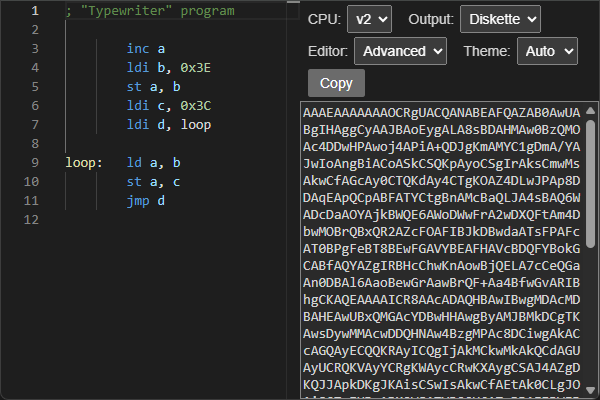
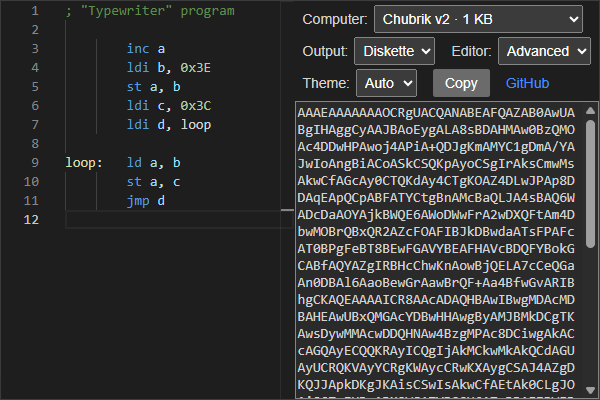
Moseev computer

diff --git a/js/v2-moseev/builder-config.js b/js/v2-moseev/builder-config.js
@@ -1,0 +1,24 @@
+import { GameMap } from "../arrows.js";
+
[3 lines of base64/hex data omitted]
+
+export const builderConfig = {
+    top,
+    bottom,
+    line,
+    rowBytes: 1,  // data bytes on one row of the diskette
+    minBytes: 2,  // the smallest payload a diskette can carry (assumed: seen only one sample)
+    rowPitch: 3,  // map rows taken by one data row: a header, the bits, a footer
+    dataX: 6,     // x of the first data arrow in a row (bit 0; bit 7 stands at x = 20)
+    cellPitch: 2, // x step between the cells of one byte
+    cells: [      // the arrow for each one-bit value of a cell
+        { type: 1, rotation: 3, flipped: false },
+        { type: 1, rotation: 2, flipped: false }
+    ],
+    topX: 0,      // x the top cap is pasted at
+    lineX: 0,     // x the row band is pasted at
+    lineDy: -1,   // band y relative to its row: the header row above the bits
+    bottomDy: -2, // bottom cap y = row count * rowPitch + bottomDy
+};

diff --git a/js/computers.js b/js/computers.js
@@ -6,10 +6,14 @@ import { Compiler as v2Compiler } from "./v2/compiler.js";
 import * as v2Reference from "./v2/reference.js";
 import * as v2Docs from "./v2/docs.js";
 import { builderConfig as v2Diskette } from "./v2/builder-config.js";
+import { Compiler as moseevCompiler } from "./v2-moseev/compiler.js";
+import * as moseevDocs from "./v2-moseev/docs.js";
+import { builderConfig as moseevDiskette } from "./v2-moseev/builder-config.js";
 
 export const computers = {
     "v1": { Compiler: v1Compiler, reference: v1Reference, docs: v1Docs, builderConfig: v1Diskette },
-    "v2": { Compiler: v2Compiler, reference: v2Reference, docs: v2Docs, builderConfig: v2Diskette }
+    "v2": { Compiler: v2Compiler, reference: v2Reference, docs: v2Docs, builderConfig: v2Diskette },
+    "v2-moseev": { Compiler: moseevCompiler, reference: v2Reference, docs: moseevDocs, builderConfig: moseevDiskette }
 };
 
 export const defaultComputer = "v2";

diff --git a/js/v2-moseev/docs.js b/js/v2-moseev/docs.js
@@ -1,0 +1,7 @@
+export { instructionDocs, dbDoc } from "../v2/docs.js";
+
+export const portDocs = {
+    0xFD: { doc: "**Port FD** — the input port" },
+    0xFE: { doc: "**Port FE** — the display, left half: the byte written appears in the bottom row and pushes the rows above it up" },
+    0xFF: { doc: "**Port FF** — the display, right half: the byte written appears in the bottom row and pushes the rows above it up" }
+};

diff --git a/js/v2-moseev/compiler.js b/js/v2-moseev/compiler.js
@@ -1,0 +1,9 @@
+import { createCompiler } from "../asm.js";
+import { Args, commands, instructions, registers, keywords } from "../v2/reference.js";
+
+export const Compiler = createCompiler({
+    Args, commands, instructions, registers, keywords,
+    memorySize: 256,
+    byteAddress: (offset) => offset, // the whole memory is addressed directly
+    trackLineOffsets: false // no banking — the editor draws no boundaries
+});

diff --git a/index.html b/index.html
@@ -17,6 +17,7 @@
                     <select id="computer">
                         <option value="v1">Chubrik v1 · 256 B</option>
                         <option value="v2">Chubrik v2 · 1 KB</option>
+                        <option value="v2-moseev">Chubrik v2 (Moseev) · 256 B</option>
                     </select>
                 </div>
                 <div class="toolbar-group">

diff --git a/ru/README.md b/ru/README.md
@@ -3,11 +3,10 @@
 &nbsp;&nbsp;&nbsp;
 🌐 [English](../README.md) | Русский
 
-Этот онлайн-компилятор собирает программы для
-[двух компьютеров](https://github.com/chubrik/LogicArrows/blob/main/ru/README.md), построенных в
-«Стрелочках» — браузерной игре, где из простых стрелочек на клеточном поле строятся сложные
-логические схемы. В левой части он принимает ассемблер, а в правой преобразует его в код сохранения,
-который можно вставить на карту с компьютером и запустить.
+Этот онлайн-компилятор собирает программы для различных компьютеров, построенных в
+[«Стрелочках»](https://logic-arrows.io/) — браузерной игре, где из простых стрелочек на клеточном
+поле строятся сложные логические схемы. В левой части он принимает ассемблер, а в правой
+преобразует его в код сохранения, который можно вставить на карту с компьютером и запустить.
 <br><br>
 
 
@@ -25,6 +24,8 @@
 - [Компьютер v2](https://github.com/chubrik/LogicArrows/blob/main/ru/computer-v2/README.md) и
   [Компьютер v1](https://github.com/chubrik/LogicArrows/blob/main/ru/computer-v1/README.md) –
   документация, ассемблер и примеры программ
+- [Михаил Мосеев](https://github.com/mihail-moseev/program_for_computer_in_logic-arrows) –
+  репозиторий автора собственного компьютера, совместимого с v2
 - [Стрелочки в браузере](https://logic-arrows.io/) – игра, в которой работают компьютеры
 - [Стрелочки в Steam](https://store.steampowered.com/app/4210250/Logic_Arrows/) – новая версия игры,
   совместимая с браузерной

diff --git a/README.md b/README.md
@@ -3,11 +3,10 @@
 &nbsp;&nbsp;&nbsp;
 🌐 English | [Русский](ru/README.md)
 
-This online compiler builds programs for
-[two computers](https://github.com/chubrik/LogicArrows) created in “Logic Arrows” — a browser game
-where complex logic circuits are assembled from simple arrows on a grid. Its left pane accepts
-assembly code, and the right pane converts it into a save code that can be pasted onto the
-computer’s map and run.
+This online compiler builds programs for various computers created in
+[“Logic Arrows”](https://logic-arrows.io/) — a browser game where complex logic circuits are
+assembled from simple arrows on a grid. Its left pane accepts assembly code, and the right pane
+converts it into a save code that can be pasted onto the computer’s map and run.
 <br><br>
 
 
@@ -25,6 +24,8 @@ computer’s map and run.
 - [Computer v2](https://github.com/chubrik/LogicArrows/blob/main/computer-v2/README.md) and
   [Computer v1](https://github.com/chubrik/LogicArrows/blob/main/computer-v1/README.md) –
   documentation, assembler, and example programs
+- [Mikhail Moseev](https://github.com/mihail-moseev/program_for_computer_in_logic-arrows) –
+  repository by the author of his own computer, compatible with v2
 - [Logic Arrows in browser](https://logic-arrows.io/) – the game where the computers run
 - [Logic Arrows on Steam](https://store.steampowered.com/app/4210250/Logic_Arrows/) – new version
   of the game, compatible with the browser one
